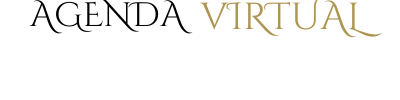
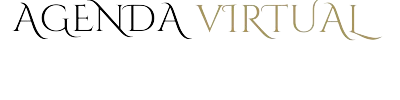
imagem some com fundo do site

Changed region(s): [[0.03, 0.0, 0.48, 0.39], [0.48, 0.0, 0.96, 0.42], [0.18, 0.36, 0.21, 0.39]]

diff --git a/inicio.php b/inicio.php
@@ -58,7 +58,7 @@ if (empty($_SESSION)) {
     <nav class="navbar navbar-expand-lg navbar-dark bg-dark ">
         <div class="container ">
             <a class="navbar-brand" href="inicio.php">
-                <span class="display-6" style="font-size:1.5em"></span>   <img src="agendainicio.png" alt="logo" class="logominiatura" />
+                <span class="display-6" style="font-size:1.5em"></span><img src="inicioagendabg.png" alt="logo" class="logominiatura" />
                 <div class="logo">
                    
                 </div>

diff --git a/index.php b/index.php
@@ -45,7 +45,7 @@ if (!empty($_SESSION)) {
                     <div class="card">
                         <div class="card-body">
                         <div class="imgProduto">
-                        <img src="agenda.png" alt="produto" class="produtominiatura" />
+                        <img src="agendologo.png" alt="produto" class="produtominiatura" />
                            
                             <form action="login.php " method="post">
                                 
